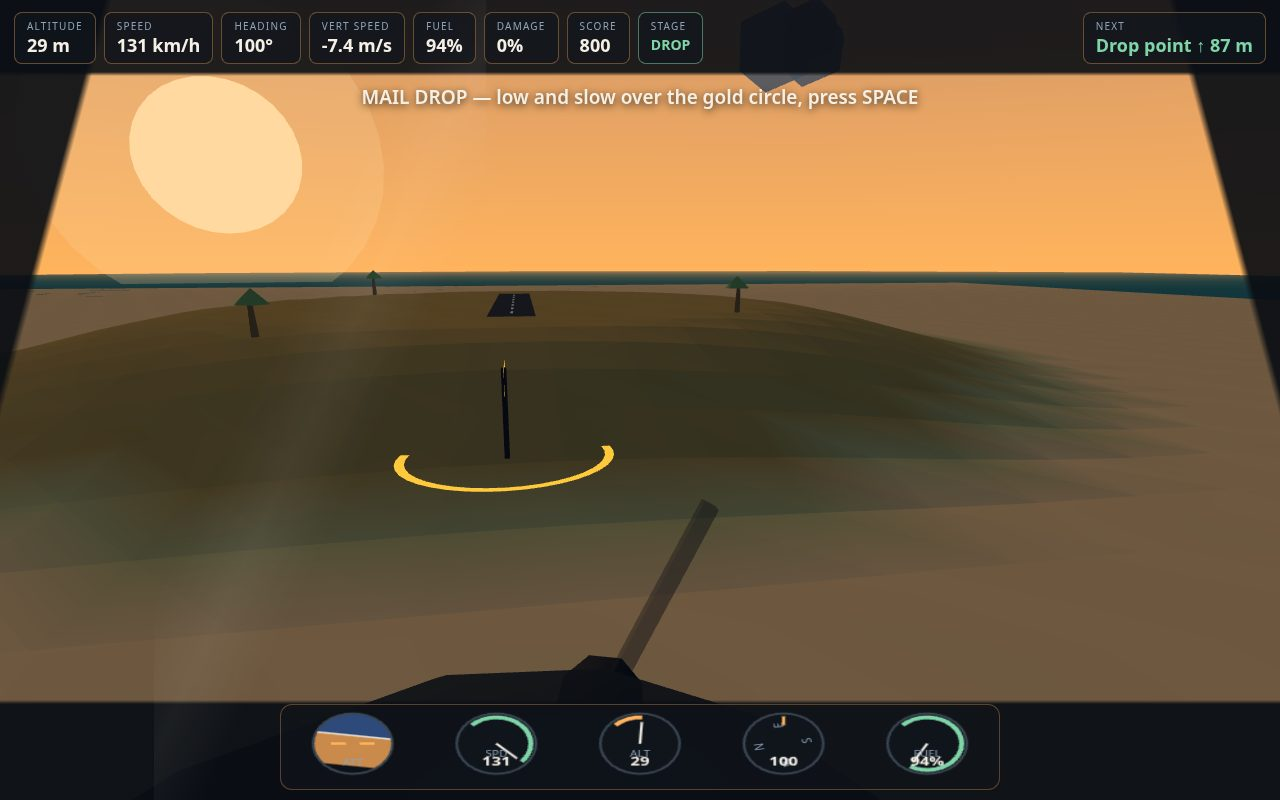
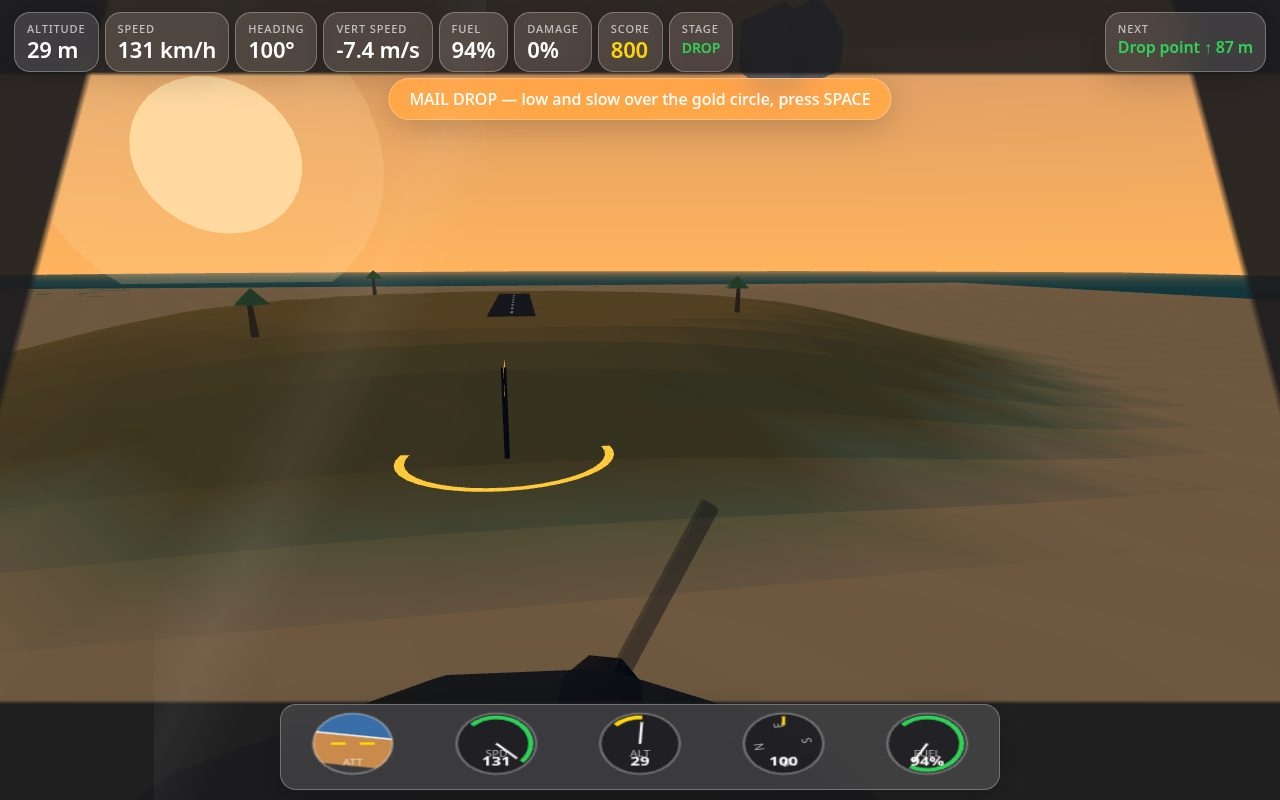
Apple-style UI: glass HUD chips, white capsule buttons, glass gauges
Restyle only — no gameplay or logic changes. Keeps every HUD
element id and all bindings; title/pause/results screens use the
same Apple glass system (blur 20px + saturate 180%, SF stack,
score #FFD60A, low fuel #FF453A). Screenshots retaken in-game.

Changed region(s): [[0.0, 0.0, 0.7188, 0.1562], [0.2188, 0.875, 0.7812, 1.0], [0.8438, 0.0, 1.0, 0.0938]]

diff --git a/game/index.html b/game/index.html
@@ -7,46 +7,62 @@
 <style>
   * { box-sizing: border-box; margin: 0; padding: 0; }
   html, body { width: 100%; height: 100%; overflow: hidden; background: #1a2230; }
-  body { font-family: system-ui, -apple-system, "Segoe UI", sans-serif; color: #f5f0e6; }
+  body {
+    font-family: -apple-system, BlinkMacSystemFont, "SF Pro Display", "SF Pro Text", "PingFang SC", "Hiragino Sans GB", system-ui, sans-serif;
+    color: #fff; -webkit-font-smoothing: antialiased; text-rendering: optimizeLegibility;
+  }
   #game-canvas { position: fixed; inset: 0; width: 100%; height: 100%; display: block; touch-action: none; }
+
+  /* --- Apple-style glass --- */
+  .glass {
+    background: rgba(255, 255, 255, 0.14);
+    border: 1px solid rgba(255, 255, 255, 0.28);
+    backdrop-filter: blur(20px) saturate(180%);
+    -webkit-backdrop-filter: blur(20px) saturate(180%);
+    box-shadow: 0 8px 32px rgba(0, 0, 0, 0.18);
+  }
 
   /* --- HUD --- */
   #hud { position: fixed; inset: 0; display: none; flex-direction: column; justify-content: space-between; pointer-events: none; z-index: 5; }
-  #hud-top { display: flex; flex-wrap: wrap; gap: 8px; padding: 12px 14px; }
-  .hud-chip { background: rgba(16, 21, 28, 0.72); border: 1px solid rgba(255, 179, 92, 0.35); border-radius: 8px; padding: 6px 12px; backdrop-filter: blur(2px); }
-  .hud-chip .lbl { font-size: 10px; letter-spacing: 0.12em; color: #8fa3b8; display: block; }
-  .hud-chip .val { font-size: 18px; font-weight: 700; font-variant-numeric: tabular-nums; color: #f5f0e6; }
-  .hud-chip.stage { border-color: rgba(127, 212, 168, 0.5); }
-  .hud-chip.stage .val { font-size: 14px; color: #7fd4a8; }
+  #hud-top { display: flex; flex-wrap: nowrap; gap: 6px; padding: 12px 14px; }
+  .hud-chip { padding: 8px 12px; border-radius: 16px; font-variant-numeric: tabular-nums; }
+  .hud-chip .lbl { font-size: 11px; font-weight: 500; letter-spacing: 0.08em; text-transform: uppercase; color: rgba(255, 255, 255, 0.65); display: block; }
+  .hud-chip .val { font-size: 22px; font-weight: 600; letter-spacing: -0.01em; line-height: 1.2; color: #fff; }
+  .hud-chip.stage .val { font-size: 14px; color: #30d158; }
+  #hud-score { color: #ffd60a; }
   #hud-target { margin-left: auto; }
-  #hud-message { position: absolute; top: 78px; left: 50%; transform: translateX(-50%); max-width: 90vw; text-align: center; font-size: 19px; font-weight: 600; text-shadow: 0 2px 8px rgba(0,0,0,0.8); padding: 6px 16px; }
+  #hud-target .val { font-size: 16px; }
+  #hud-message { position: absolute; top: 78px; left: 50%; transform: translateX(-50%); max-width: 90vw; text-align: center; font-size: 16px; font-weight: 500; padding: 9px 20px; border-radius: 999px; white-space: nowrap; }
+  #hud-message:empty { display: none; }
   #hud-bottom { display: flex; justify-content: center; padding: 0 0 10px; }
-  #gauges { width: min(560px, 86vw); height: 86px; background: rgba(16, 21, 28, 0.66); border: 1px solid rgba(255, 179, 92, 0.3); border-radius: 12px; }
+  #gauges { width: min(560px, 86vw); height: 86px; border-radius: 16px; }
 
-  /* Cockpit windshield frame: dark pillars + a glare strip, only in cockpit view. */
+  /* Cockpit windshield frame: neutral graphite pillars + a glare strip, only in cockpit view. */
   #cockpit-frame { position: fixed; inset: 0; display: none; pointer-events: none; z-index: 4; }
   #cockpit-frame::before { content: ""; position: absolute; inset: 0; background:
-    linear-gradient(105deg, rgba(10,14,20,0.92) 0%, rgba(10,14,20,0.92) 7%, transparent 7.5%),
-    linear-gradient(255deg, rgba(10,14,20,0.92) 0%, rgba(10,14,20,0.92) 7%, transparent 7.5%),
-    linear-gradient(0deg, rgba(10,14,20,0.94) 0%, rgba(10,14,20,0.94) 12%, transparent 12.5%),
-    linear-gradient(180deg, rgba(10,14,20,0.9) 0%, rgba(10,14,20,0.9) 9%, transparent 9.5%); }
+    linear-gradient(105deg, rgba(28,28,30,0.92) 0%, rgba(28,28,30,0.92) 7%, transparent 7.5%),
+    linear-gradient(255deg, rgba(28,28,30,0.92) 0%, rgba(28,28,30,0.92) 7%, transparent 7.5%),
+    linear-gradient(0deg, rgba(28,28,30,0.94) 0%, rgba(28,28,30,0.94) 12%, transparent 12.5%),
+    linear-gradient(180deg, rgba(28,28,30,0.9) 0%, rgba(28,28,30,0.9) 9%, transparent 9.5%); }
   #cockpit-frame::after { content: ""; position: absolute; left: 12%; top: 0; width: 26%; height: 100%; background: linear-gradient(115deg, transparent 40%, rgba(255,255,255,0.05) 50%, transparent 60%); }
 
   /* --- Screens --- */
-  .screen { position: fixed; inset: 0; display: none; align-items: center; justify-content: center; z-index: 10; background: rgba(12, 18, 28, 0.55); backdrop-filter: blur(3px); }
-  .panel { max-width: 620px; width: 92vw; background: rgba(16, 21, 28, 0.92); border: 1px solid rgba(255, 179, 92, 0.45); border-radius: 16px; padding: 30px 34px; text-align: center; box-shadow: 0 20px 60px rgba(0,0,0,0.5); }
-  .panel h1 { font-size: 42px; letter-spacing: 0.02em; color: #ffb35c; margin-bottom: 4px; }
-  .panel h2 { font-size: 30px; color: #ffb35c; margin-bottom: 10px; }
-  .panel .sub { font-size: 16px; color: #c9d4e0; line-height: 1.55; margin-bottom: 18px; }
-  .panel .controls { font-size: 14px; color: #8fa3b8; line-height: 1.9; margin-bottom: 22px; text-align: left; display: inline-block; }
-  .panel .controls b { color: #f5f0e6; }
-  .panel .stats { font-size: 15px; line-height: 1.8; color: #c9d4e0; margin-bottom: 20px; }
-  .panel .stats b { color: #ffb35c; }
-  .btn { pointer-events: auto; cursor: pointer; font-size: 18px; font-weight: 700; color: #1a2230; background: #ffb35c; border: none; border-radius: 10px; padding: 13px 34px; }
-  .btn:hover { background: #ffc57d; }
-  .btn.ghost { background: transparent; color: #ffb35c; border: 1px solid #ffb35c; margin-left: 10px; }
-  #best-line { margin-top: 14px; font-size: 13px; color: #8fa3b8; }
-  .hint { margin-top: 16px; font-size: 12px; color: #8fa3b8; }
+  .screen { position: fixed; inset: 0; display: none; align-items: center; justify-content: center; z-index: 10; background: rgba(15, 7, 3, 0.45); backdrop-filter: blur(4px); -webkit-backdrop-filter: blur(4px); }
+  .panel { max-width: 620px; width: 92vw; border-radius: 28px; padding: 30px 34px; text-align: center; }
+  .panel h1 { font-size: 56px; font-weight: 700; letter-spacing: -0.02em; color: #fff; margin-bottom: 4px; }
+  .panel h2 { font-size: 28px; font-weight: 700; letter-spacing: -0.01em; color: #fff; margin-bottom: 10px; }
+  .panel .sub { font-size: 16px; color: rgba(255, 255, 255, 0.78); line-height: 1.55; margin-bottom: 18px; }
+  .panel .controls { font-size: 13px; color: rgba(255, 255, 255, 0.72); line-height: 2; margin-bottom: 22px; text-align: left; display: inline-block; }
+  .panel .controls b { color: #fff; background: rgba(255, 255, 255, 0.16); border: 1px solid rgba(255, 255, 255, 0.2); border-radius: 6px; padding: 2px 7px; font-weight: 600; font-size: 12px; }
+  .panel .stats { font-size: 15px; line-height: 1.8; color: rgba(255, 255, 255, 0.78); margin-bottom: 20px; }
+  .panel .stats b { color: #ffd60a; }
+  .btn { pointer-events: auto; cursor: pointer; font-size: 17px; font-weight: 600; color: #1d1d1f; background: #fff; border: none; border-radius: 999px; padding: 14px 38px; box-shadow: 0 4px 16px rgba(0, 0, 0, 0.25); transition: transform 0.12s, opacity 0.12s; }
+  .btn:hover { transform: translateY(-1px); }
+  .btn:active { transform: scale(0.97); opacity: 0.9; }
+  .btn.ghost { background: rgba(255, 255, 255, 0.12); color: #fff; border: 1px solid rgba(255, 255, 255, 0.35); box-shadow: none; margin-left: 10px; }
+  .btn.ghost:hover { background: rgba(255, 255, 255, 0.2); }
+  #best-line { margin-top: 14px; font-size: 13px; color: rgba(255, 255, 255, 0.65); }
+  .hint { margin-top: 16px; font-size: 12px; color: rgba(255, 255, 255, 0.65); }
 </style>
 </head>
 <body>
@@ -55,22 +71,22 @@
 
 <div id="hud">
   <div id="hud-top">
-    <div class="hud-chip"><span class="lbl">ALTITUDE</span><span class="val" id="hud-alt">12 m</span></div>
-    <div class="hud-chip"><span class="lbl">SPEED</span><span class="val" id="hud-spd">0 km/h</span></div>
-    <div class="hud-chip"><span class="lbl">HEADING</span><span class="val" id="hud-hdg">090°</span></div>
-    <div class="hud-chip"><span class="lbl">VERT SPEED</span><span class="val" id="hud-vs">+0.0 m/s</span></div>
-    <div class="hud-chip"><span class="lbl">FUEL</span><span class="val" id="hud-fuel">100%</span></div>
-    <div class="hud-chip"><span class="lbl">DAMAGE</span><span class="val" id="hud-dmg">0%</span></div>
-    <div class="hud-chip"><span class="lbl">SCORE</span><span class="val" id="hud-score">0</span></div>
-    <div class="hud-chip stage"><span class="lbl">STAGE</span><span class="val" id="hud-stage">TAKEOFF</span></div>
-    <div class="hud-chip" id="hud-target"><span class="lbl">NEXT</span><span class="val" id="hud-target-val">Climb out ↑ 0 m</span></div>
+    <div class="hud-chip glass"><span class="lbl">ALTITUDE</span><span class="val" id="hud-alt">12 m</span></div>
+    <div class="hud-chip glass"><span class="lbl">SPEED</span><span class="val" id="hud-spd">0 km/h</span></div>
+    <div class="hud-chip glass"><span class="lbl">HEADING</span><span class="val" id="hud-hdg">090°</span></div>
+    <div class="hud-chip glass"><span class="lbl">VERT SPEED</span><span class="val" id="hud-vs">+0.0 m/s</span></div>
+    <div class="hud-chip glass"><span class="lbl">FUEL</span><span class="val" id="hud-fuel">100%</span></div>
+    <div class="hud-chip glass"><span class="lbl">DAMAGE</span><span class="val" id="hud-dmg">0%</span></div>
+    <div class="hud-chip glass"><span class="lbl">SCORE</span><span class="val" id="hud-score">0</span></div>
+    <div class="hud-chip glass stage"><span class="lbl">STAGE</span><span class="val" id="hud-stage">TAKEOFF</span></div>
+    <div class="hud-chip glass" id="hud-target"><span class="lbl">NEXT</span><span class="val" id="hud-target-val">Climb out ↑ 0 m</span></div>
   </div>
-  <div id="hud-message"></div>
-  <div id="hud-bottom"><canvas id="gauges" width="560" height="86"></canvas></div>
+  <div id="hud-message" class="glass"></div>
+  <div id="hud-bottom"><canvas id="gauges" class="glass" width="560" height="86"></canvas></div>
 </div>
 
 <div class="screen" id="screen-title">
-  <div class="panel">
+  <div class="panel glass">
     <h1>CANYON POSTMAN</h1>
     <p class="sub">Golden hour over the islands. Take off from the home strip, thread the
     golden rings through the canyon, drop the mail low over the far shore — then
@@ -88,7 +104,7 @@
 </div>
 
 <div class="screen" id="screen-pause">
-  <div class="panel">
+  <div class="panel glass">
     <h2>PAUSED</h2>
     <p class="sub">The mail can wait a moment.</p>
     <button class="btn" id="resume-btn">RESUME</button>
@@ -97,7 +113,7 @@
 </div>
 
 <div class="screen" id="screen-over">
-  <div class="panel">
+  <div class="panel glass">
     <h2 id="over-title">DELIVERED</h2>
     <p class="sub" id="over-verdict"></p>
     <p class="stats" id="over-stats"></p>

diff --git a/game/src/hud.js b/game/src/hud.js
@@ -52,10 +52,10 @@ function drawDial(ctx, cx, cy, r, label, valueText, frac, color) {
   // Face.
   ctx.beginPath();
   ctx.arc(0, 0, r, 0, Math.PI * 2);
-  ctx.fillStyle = '#10151c';
+  ctx.fillStyle = 'rgba(10,10,14,0.55)';
   ctx.fill();
   ctx.lineWidth = 2;
-  ctx.strokeStyle = '#3a4552';
+  ctx.strokeStyle = 'rgba(255,255,255,0.30)';
   ctx.stroke();
   // Arc of the value.
   ctx.beginPath();
@@ -68,15 +68,15 @@ function drawDial(ctx, cx, cy, r, label, valueText, frac, color) {
   ctx.beginPath();
   ctx.moveTo(0, 0);
   ctx.lineTo(Math.cos(a) * (r - 9), Math.sin(a) * (r - 9));
-  ctx.strokeStyle = '#f5f0e6';
+  ctx.strokeStyle = '#ffffff';
   ctx.lineWidth = 2;
   ctx.stroke();
   // Label + value.
-  ctx.fillStyle = '#8fa3b8';
+  ctx.fillStyle = 'rgba(255,255,255,0.65)';
   ctx.font = '9px system-ui, sans-serif';
   ctx.textAlign = 'center';
   ctx.fillText(label, 0, r * 0.42);
-  ctx.fillStyle = '#f5f0e6';
+  ctx.fillStyle = '#ffffff';
   ctx.font = 'bold 13px system-ui, sans-serif';
   ctx.fillText(valueText, 0, r * 0.72);
   ctx.restore();
@@ -90,11 +90,11 @@ function drawAttitude(ctx, cx, cy, r, pitch, roll) {
   ctx.clip();
   ctx.rotate(-roll);
   const dy = pitch * r * 1.4;
-  ctx.fillStyle = '#2e4a7a';
+  ctx.fillStyle = '#3a6ea8';
   ctx.fillRect(-r, -r + dy, r * 2, r);
   ctx.fillStyle = '#c98a4b';
   ctx.fillRect(-r, dy, r * 2, r);
-  ctx.strokeStyle = '#f5f0e6';
+  ctx.strokeStyle = '#ffffff';
   ctx.lineWidth = 1.5;
   ctx.beginPath();
   ctx.moveTo(-r, dy);
@@ -104,10 +104,10 @@ function drawAttitude(ctx, cx, cy, r, pitch, roll) {
   // Bezel + fixed wings marker.
   ctx.beginPath();
   ctx.arc(cx, cy, r, 0, Math.PI * 2);
-  ctx.strokeStyle = '#3a4552';
+  ctx.strokeStyle = 'rgba(255,255,255,0.30)';
   ctx.lineWidth = 2;
   ctx.stroke();
-  ctx.strokeStyle = '#ffb35c';
+  ctx.strokeStyle = '#ffd60a';
   ctx.lineWidth = 2.5;
   ctx.beginPath();
   ctx.moveTo(cx - r * 0.55, cy);
@@ -115,7 +115,7 @@ function drawAttitude(ctx, cx, cy, r, pitch, roll) {
   ctx.moveTo(cx + r * 0.18, cy);
   ctx.lineTo(cx + r * 0.55, cy);
   ctx.stroke();
-  ctx.fillStyle = '#8fa3b8';
+  ctx.fillStyle = 'rgba(255,255,255,0.65)';
   ctx.font = '9px system-ui, sans-serif';
   ctx.textAlign = 'center';
   ctx.fillText('ATT', cx, cy + r * 0.72);
@@ -126,15 +126,15 @@ function drawCompass(ctx, cx, cy, r, heading) {
   ctx.translate(cx, cy);
   ctx.beginPath();
   ctx.arc(0, 0, r, 0, Math.PI * 2);
-  ctx.fillStyle = '#10151c';
+  ctx.fillStyle = 'rgba(10,10,14,0.55)';
   ctx.fill();
-  ctx.strokeStyle = '#3a4552';
+  ctx.strokeStyle = 'rgba(255,255,255,0.30)';
   ctx.lineWidth = 2;
   ctx.stroke();
   ctx.clip();
   // The card turns so the current bearing sits under the lubber line (top).
   ctx.rotate(heading - Math.PI / 2);
-  ctx.fillStyle = '#8fa3b8';
+  ctx.fillStyle = 'rgba(255,255,255,0.65)';
   ctx.font = '10px system-ui, sans-serif';
   ctx.textAlign = 'center';
   for (const [deg, label] of [[0, 'N'], [90, 'E'], [180, 'S'], [270, 'W']]) {
@@ -142,13 +142,13 @@ function drawCompass(ctx, cx, cy, r, heading) {
     ctx.fillText(label, Math.cos(a) * (r - 12), Math.sin(a) * (r - 12) + 3);
   }
   ctx.restore();
-  ctx.strokeStyle = '#ffb35c';
+  ctx.strokeStyle = '#ffd60a';
   ctx.lineWidth = 2.5;
   ctx.beginPath();
   ctx.moveTo(cx, cy - r + 3);
   ctx.lineTo(cx, cy - r + 12);
   ctx.stroke();
-  ctx.fillStyle = '#f5f0e6';
+  ctx.fillStyle = '#ffffff';
   ctx.font = 'bold 13px system-ui, sans-serif';
   ctx.textAlign = 'center';
   ctx.fillText(String(headingDeg(heading)).padStart(3, '0'), cx, cy + r * 0.72);
@@ -164,13 +164,13 @@ export function drawGauges(hud, flight) {
   const gap = w / 5;
   const cy = h * 0.46;
   drawAttitude(ctx, gap * 0.5, cy, r, flight.pitch, flight.roll);
-  drawDial(ctx, gap * 1.5, cy, r, 'SPD', String(Math.round(flight.speed * 3.6)), Math.min(1, flight.speed / 55), '#7fd4a8', );
-  drawDial(ctx, gap * 2.5, cy, r, 'ALT', String(Math.round(flight.y)), Math.min(1, flight.y / 160), '#ffb35c');
+  drawDial(ctx, gap * 1.5, cy, r, 'SPD', String(Math.round(flight.speed * 3.6)), Math.min(1, flight.speed / 55), '#30d158', );
+  drawDial(ctx, gap * 2.5, cy, r, 'ALT', String(Math.round(flight.y)), Math.min(1, flight.y / 160), '#ffd60a');
   drawCompass(ctx, gap * 3.5, cy, r, flight.heading);
   const fuelFrac = flight.fuel / 100;
   drawDial(
     ctx, gap * 4.5, cy, r, 'FUEL', `${Math.round(flight.fuel)}%`,
-    fuelFrac, fuelFrac > 0.25 ? '#7fd4a8' : '#ff6b57',
+    fuelFrac, fuelFrac > 0.25 ? '#30d158' : '#ff453a',
   );
 }
 
@@ -182,17 +182,17 @@ export function updateHud(hud, flight, mission, target, message, messageKind) {
   const vs = flight.verticalSpeed;
   hud.vs.textContent = `${vs >= 0 ? '+' : ''}${vs.toFixed(1)} m/s`;
   hud.fuel.textContent = `${Math.round(flight.fuel)}%`;
-  hud.fuel.style.color = flight.fuel > 25 ? '' : '#ff6b57';
+  hud.fuel.style.color = flight.fuel > 25 ? '' : '#ff453a';
   hud.dmg.textContent = `${Math.round(flight.damage)}%`;
-  hud.dmg.style.color = flight.damage > 50 ? '#ff6b57' : '';
+  hud.dmg.style.color = flight.damage > 50 ? '#ff453a' : '';
   hud.score.textContent = String(mission.score);
   hud.stage.textContent = mission.stage.toUpperCase();
   const t = targetArrow(flight, target);
   hud.target.textContent = `${target.label} ${t.arrow} ${t.dist} m`;
-  hud.target.style.color = t.ahead ? '#7fd4a8' : '';
+  hud.target.style.color = t.ahead ? '#30d158' : '';
   if (message !== undefined) {
     hud.message.textContent = message;
-    hud.message.style.color = messageKind === 'warn' ? '#ff6b57' : messageKind === 'good' ? '#7fd4a8' : '#f5f0e6';
+    hud.message.style.color = messageKind === 'warn' ? '#ff453a' : messageKind === 'good' ? '#30d158' : '#ffffff';
   }
   drawGauges(hud, flight);
 }

diff --git a/game/src/config.js b/game/src/config.js
@@ -102,9 +102,9 @@ export const PALETTE = {
   planeOrange: 0xe86a1f,
   planeDark: 0x2b2f36,
   townLight: 0xffd27d,
-  hudAmber: '#ffb35c',
-  hudGreen: '#7fd4a8',
-  hudRed: '#ff6b57',
+  hudAmber: '#ffd60a',
+  hudGreen: '#30d158',
+  hudRed: '#ff453a',
 };
 
 // --- fixed step for the simulation (the starter's pattern) ---
